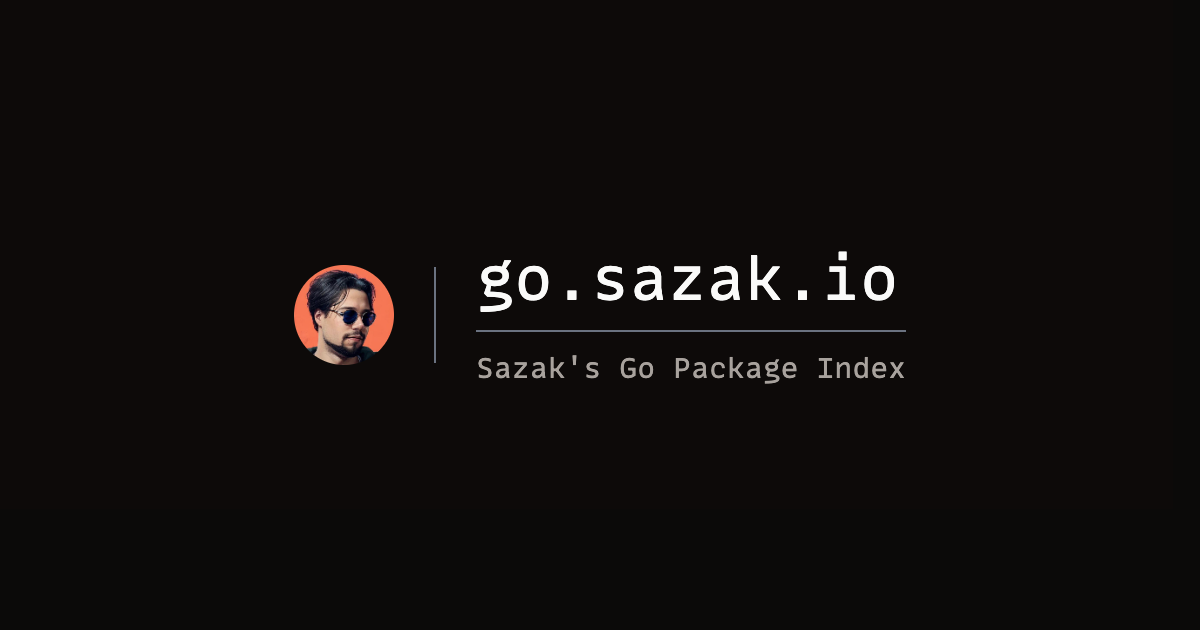
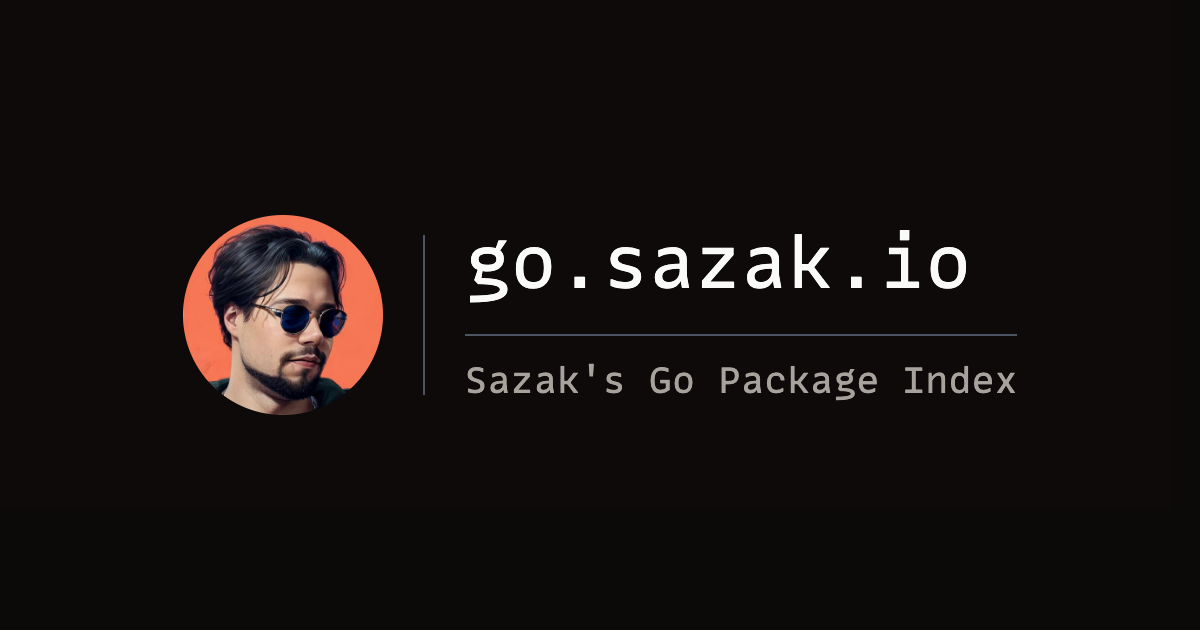
update opengraph and twitter images

Changed region(s): [[0.1542, 0.3317, 0.8325, 0.6635], [0.37, 0.573, 0.8633, 0.6333]]

diff --git a/ui/src/app/__opengraph/page.js b/ui/src/app/__opengraph/page.js
@@ -1,14 +1,17 @@
 import { Separator } from "@/components/ui/separator";
+import { cn } from "@/lib/utils";
+
+const debug = false
 
 export default function OpengraphPage() {
     return (
-      <div className="h-[315px] w-[600px] flex flex-row align-center justify-center items-center mx-5">
-          <img src="/assets/pp.jpeg" width={50} height={50} className="rounded-full" />
-          <Separator orientation="vertical" className="mx-5 bg-gray-500 h-12" />
+      <div className={cn("h-[315px] w-[600px] flex flex-row align-center justify-center items-center mx-5", debug ? "border-red-500 border-2" : "")}>
+          <img src="/assets/pp.jpeg" width={100} height={100} className="rounded-full" />
+          <Separator orientation="vertical" className="mx-5 bg-gray-600 h-20" />
           <div>
-            <div className="text-3xl">go.sazak.io</div>
-            <Separator className="my-2 bg-gray-500" />
-            <div className="text-sm text-muted-foreground">Sazak's Go Package Index</div>
+            <div className="text-4xl">go.sazak.io</div>
+            <Separator className="mt-4 mb-2 bg-gray-600" />
+            <div className="text-lg text-muted-foreground">Sazak's Go Package Index</div>
           </div>
       </div>
     )
